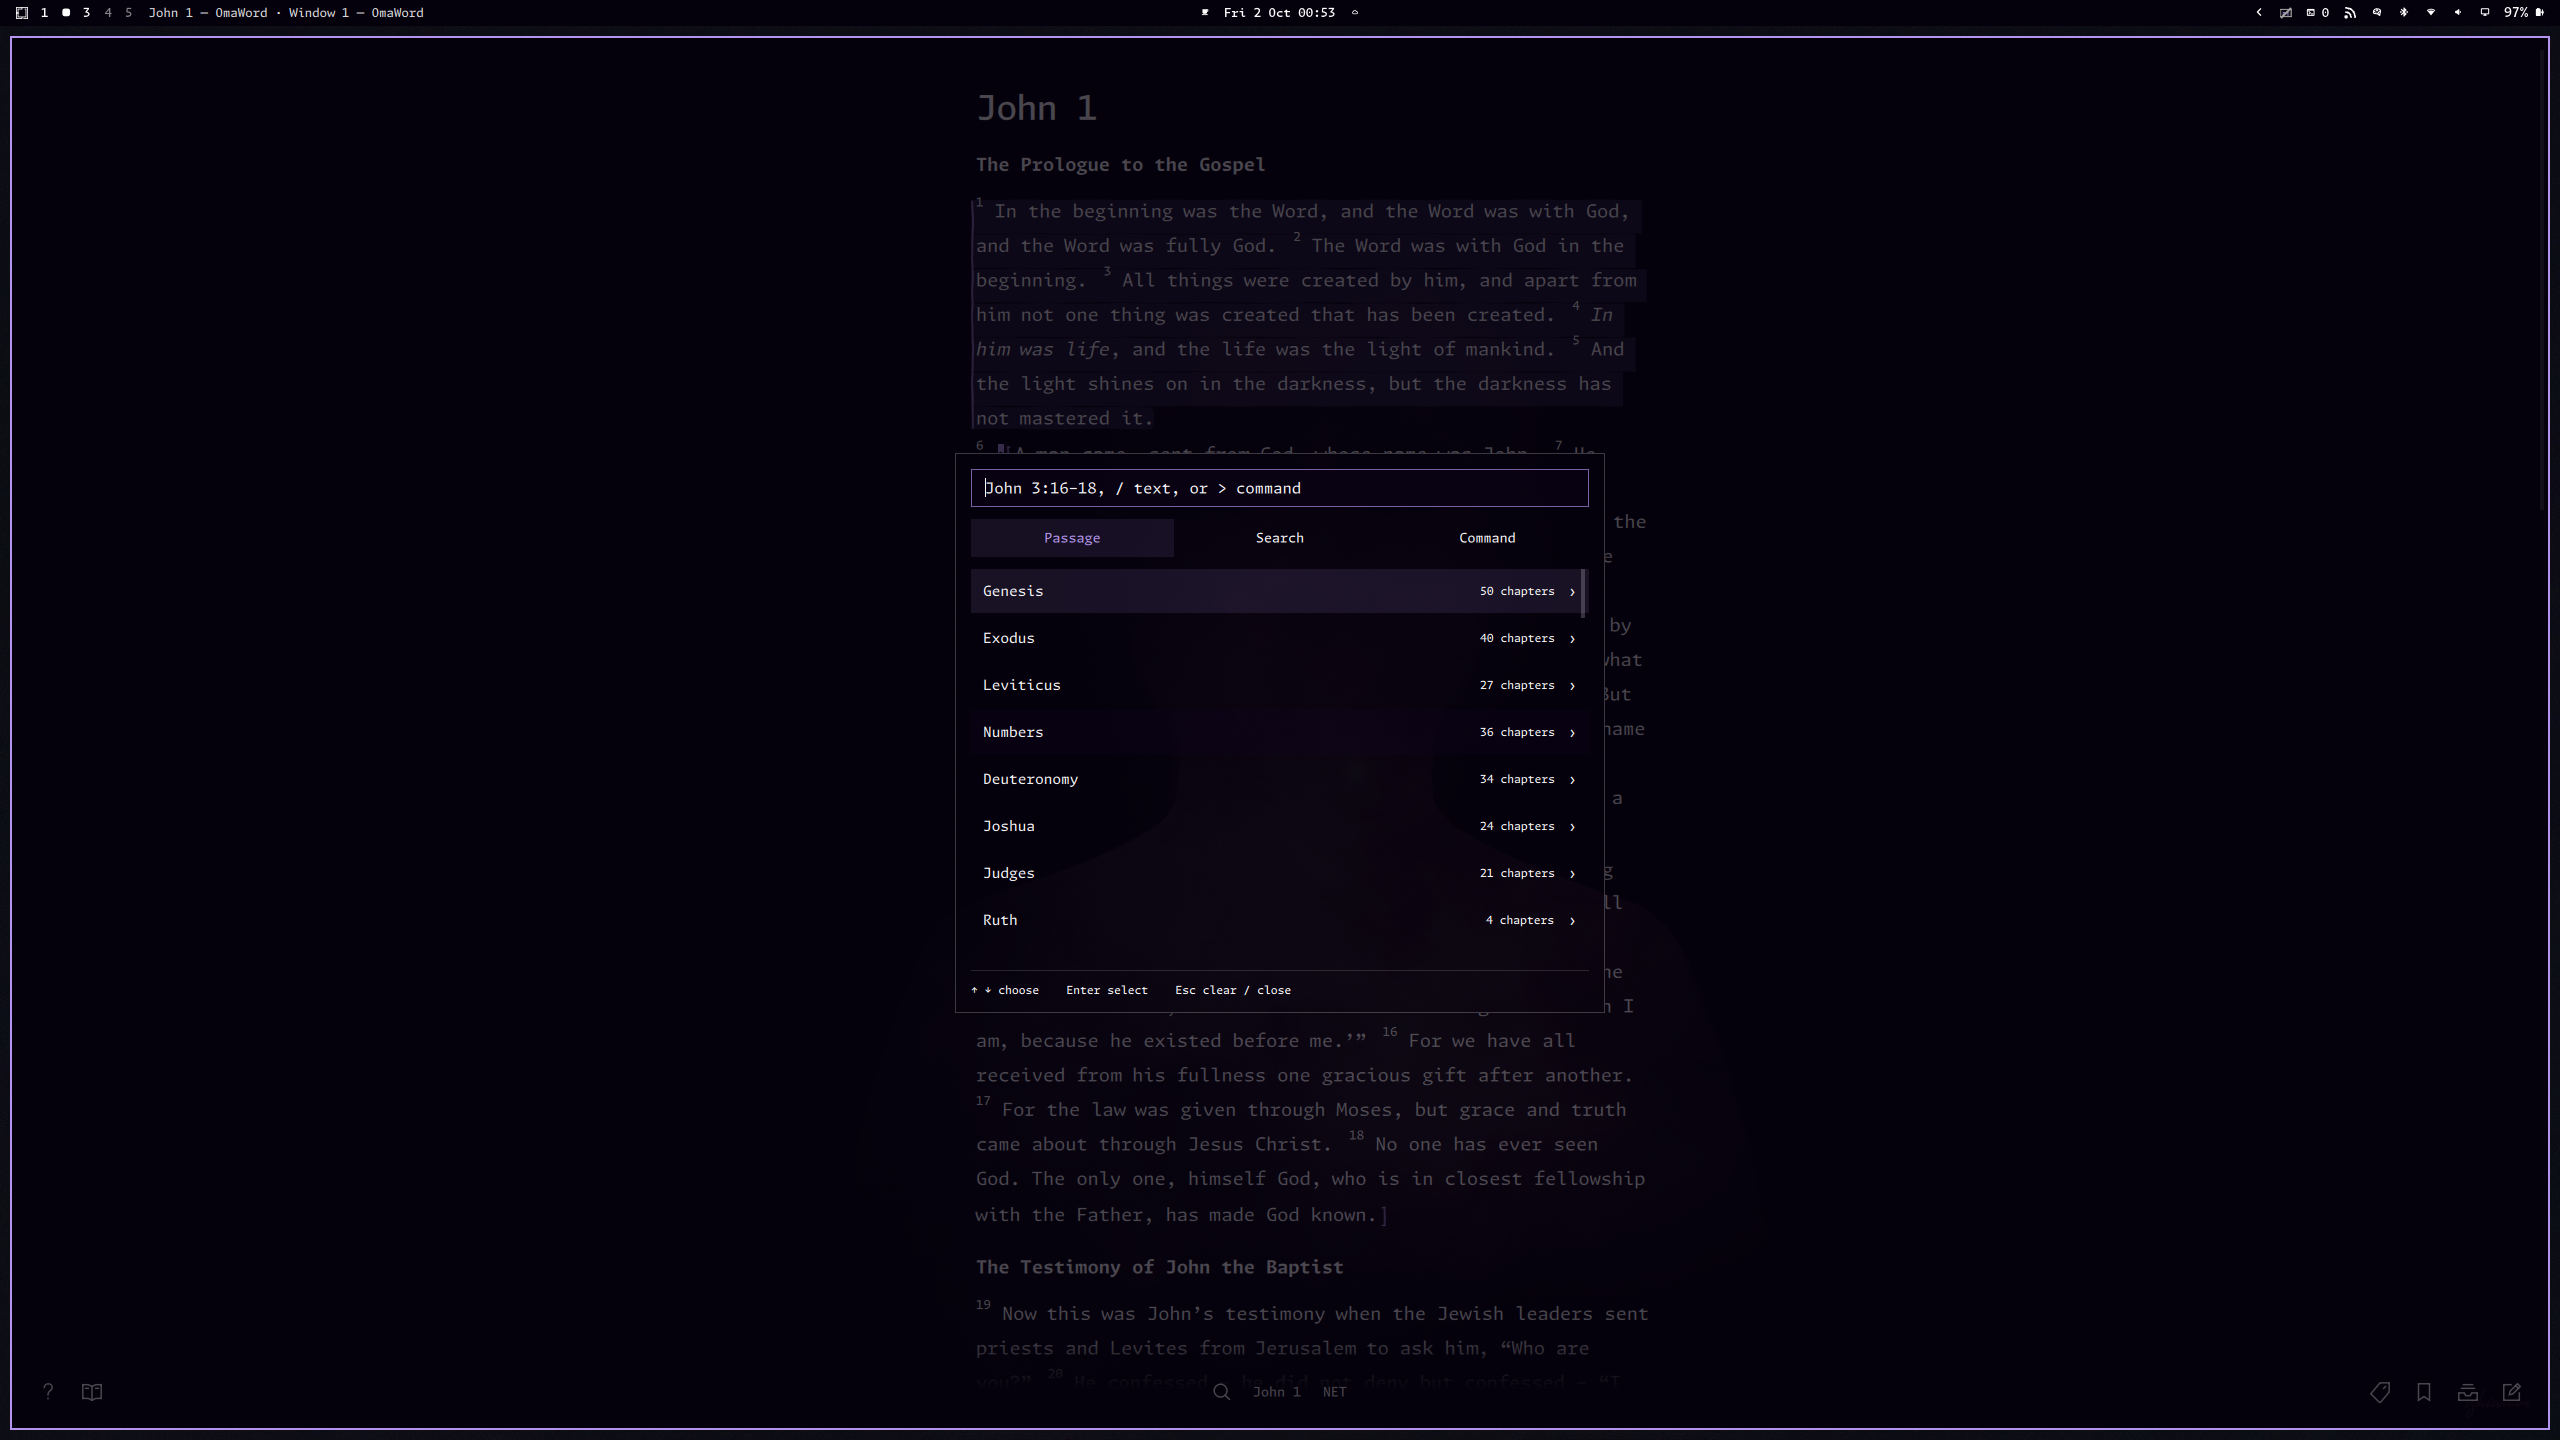
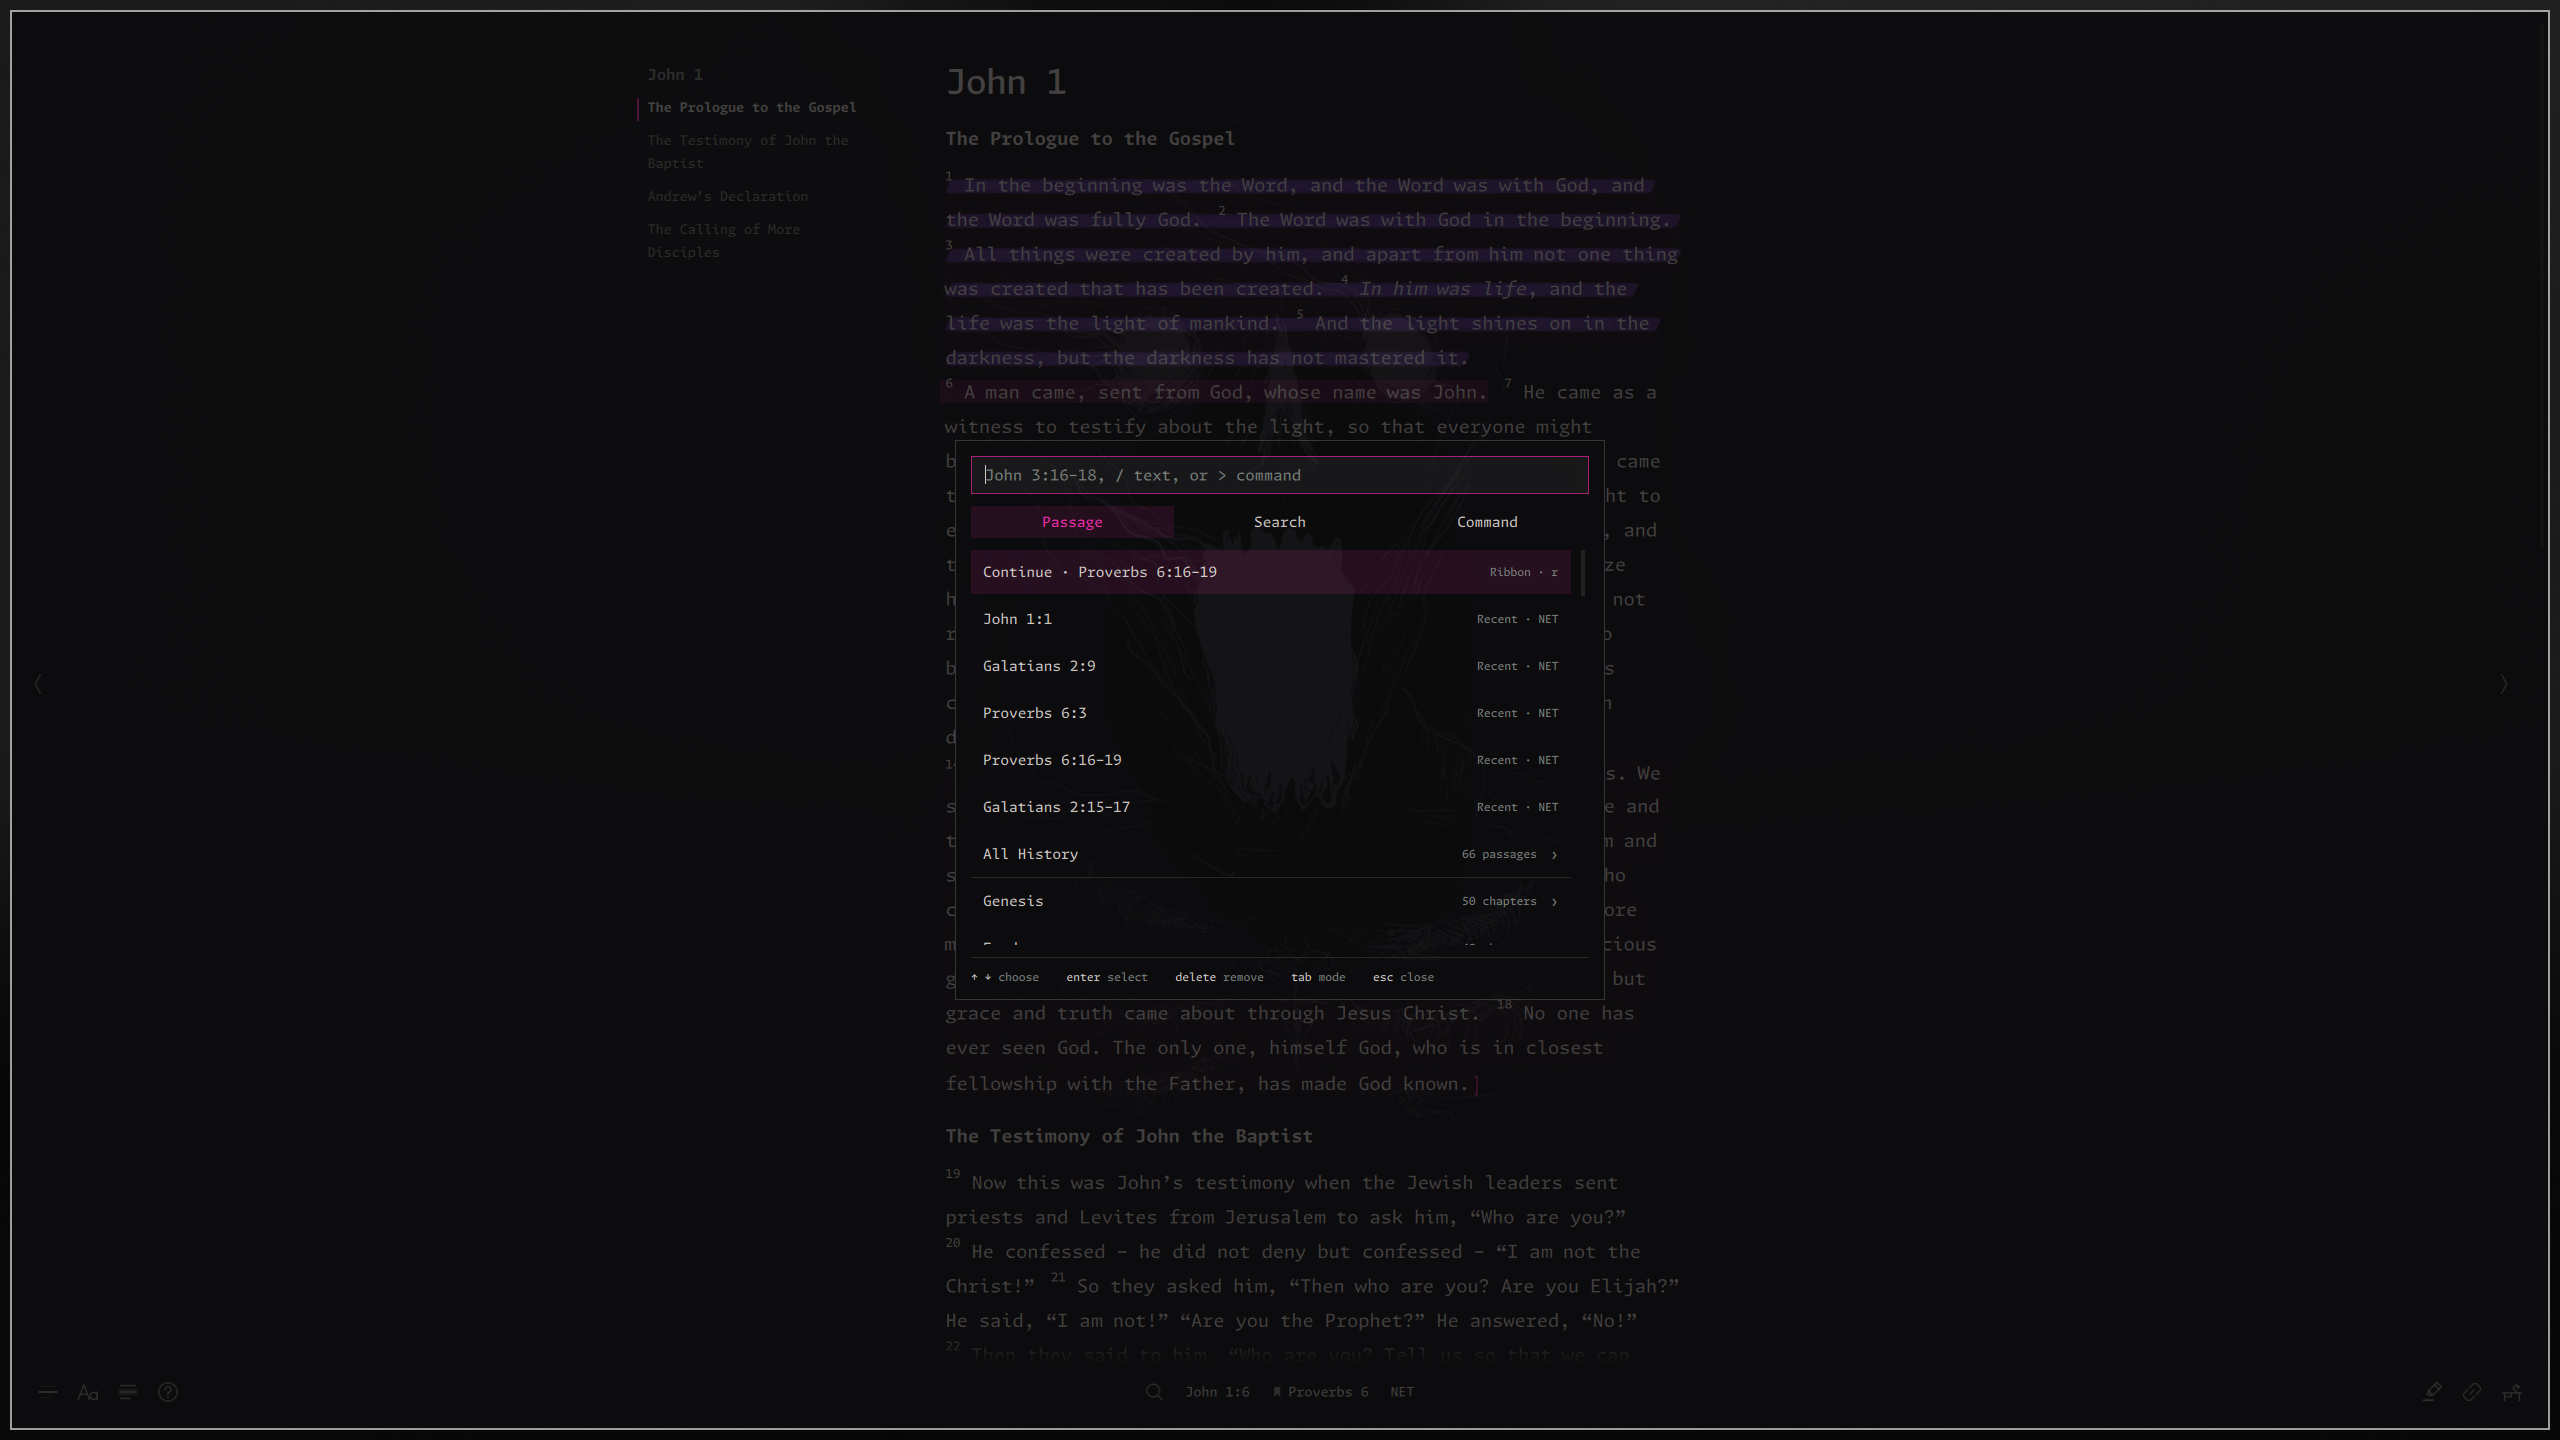
Show the README's screenshots of today's OmaWord, with the NET Bible's permission notice, and invite pull requests
The README's screenshots dated from early October. It now shows six of
today's: the reader leading, then Notes, the Desk, Marks, the passage
palette, and the lookup window (losslessly recompressed, metadata
stripped). They quote the NET Bible, which allows it with the text
marked (NET), NET linked to netbible.org, and its notice word for word,
now under Credits with a note that the text is used under that
permission, not the MIT license. The closing paragraph invites pull
requests as well as issues, says agent contributions are welcome, and
points to AGENTS.md.

Co-authored by: Claude Opus 5.5 <noreply@anthropic.com>

diff --git a/README.md b/README.md
@@ -4,12 +4,19 @@
 
 A minimal, keyboard-first Bible reader built with Qt Quick and C++ that follows your Omarchy theme, system font, and desktop corners. Read offline, highlight and tag passages, and keep Markdown notes alongside the text.
 
-![OmaWord reading John 1 with a highlighted range and inline annotation brackets](screenshots/reader.png)
+![OmaWord reading John 1, with the chapter outline beside it, a highlighted passage, and a selected verse](screenshots/reader.png)
 
 <p>
-  <img src="screenshots/palette.png" alt="The passage palette over the reader" width="49%">
-  <img src="screenshots/search.png" alt="Bible search results in a light theme" width="49%">
+  <img src="screenshots/notes.png" alt="Notes beside the text, a note being written on John 1:6" width="49%">
+  <img src="screenshots/desk.png" alt="The Desk: a Markdown study page of quotations, headings, and lists beside Proverbs 6" width="49%">
+  <img src="screenshots/marks.png" alt="Marks in a light theme: every highlight, tag, and note, one row per passage" width="49%">
+  <img src="screenshots/palette.png" alt="The passage palette over the reader, with the ribbon and recent passages" width="49%">
 </p>
+<p align="center">
+  <img src="screenshots/lookup.png" alt="The lookup window showing John 3:16 over the desktop" width="49%">
+</p>
+
+Screenshots show the [NET](https://netbible.org) Bible®, quoted by permission (see [Credits](#credits)).
 
 ## Install
 
@@ -289,6 +296,10 @@ Omarchy already provides most of these; the install command above adds the rest.
 
 ## Credits
 
-Bible text has its own copyright and attribution, shown in About & Attribution. Cross-references come from each version's source and from "Cross references" by [OpenBible.info](https://www.openbible.info/labs/cross-references/), licensed [CC BY 4.0](https://creativecommons.org/licenses/by/4.0/) and converted for OmaWord (entries without positive votes dropped, duplicates merged); that data, `resources/crossrefs.bin`, stays under CC BY 4.0. The application code is [MIT licensed](LICENSE).
+Bible text has its own copyright and attribution, shown in About & Attribution. The screenshots quote the NET Bible, under its own permission rather than the MIT license:
 
-Found a problem or have an idea? [Open a GitHub issue](https://github.com/bradenr402/omaword/issues). See [ARCHITECTURE.md](ARCHITECTURE.md) and [tests/README.md](tests/README.md) for development.
+> Scripture quoted by permission. Quotations designated (NET) are from the NET Bible® copyright ©1996, 2019 by Biblical Studies Press, L.L.C. http://netbible.com All rights reserved.
+
+Cross-references come from each version's source and from "Cross references" by [OpenBible.info](https://www.openbible.info/labs/cross-references/), licensed [CC BY 4.0](https://creativecommons.org/licenses/by/4.0/) and converted for OmaWord (entries without positive votes dropped, duplicates merged); that data, `resources/crossrefs.bin`, stays under CC BY 4.0. The application code is [MIT licensed](LICENSE).
+
+Found a problem or have an idea? [Open a GitHub issue](https://github.com/bradenr402/omaword/issues), or a pull request. Agent contributions are welcome. See [ARCHITECTURE.md](ARCHITECTURE.md), [tests/README.md](tests/README.md), and [AGENTS.md](AGENTS.md) for development.
